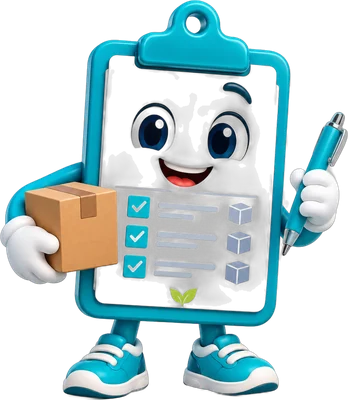
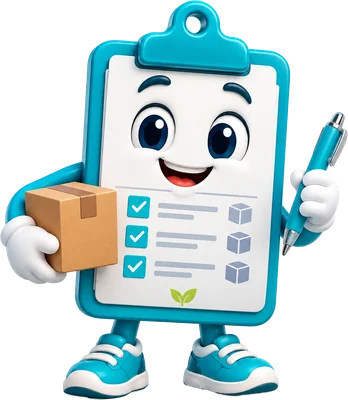
Turma: Cobrança, Compras, Proposta e Rolinho recortados de novo (o papel branco tinha sumido)
Claude-Session: https://claude.ai/code/session_01J4Z1XWxze9kpV6e58orTjR

diff --git a/index.html b/index.html
@@ -9,9 +9,9 @@
 <meta http-equiv="Content-Security-Policy" content="default-src 'self'; script-src 'self' https://cdn.jsdelivr.net; style-src 'self'; img-src 'self' data:; connect-src 'self' https://*.supabase.co wss://*.supabase.co; object-src 'none'; base-uri 'none'; form-action 'none'">
 <meta name="referrer" content="no-referrer">
 <title>CRM</title>
-<meta name="crm-versao" content="e95580fee426">
+<meta name="crm-versao" content="ae8185f32b1e">
 <link rel="icon" href="assets/logo.jpg?v=c886df2fc5">
-<link rel="stylesheet" href="crm.css?v=f12d5df70e">
+<link rel="stylesheet" href="crm.css?v=3f051bbf5e">
 </head>
 <body>
 <div id="tela"></div>
@@ -48,7 +48,7 @@
 <div id="impressao" class="impressao"></div>
 <div id="toast" class="toast" role="status" aria-live="polite"></div>
 
-<script src="config.js?v=6eb3476628"></script>
+<script src="config.js?v=87927d4589"></script>
 <script src="regras.js?v=79de468a56"></script>
 <script src="cadencia.js?v=8905237dde"></script>
 <script src="dados.js?v=3bebf4986f"></script>
@@ -66,7 +66,7 @@
 <script src="caixa.js?v=b809338a5a"></script>
 <script src="detalhe.js?v=faea975d82"></script>
 <script src="financeiro.js?v=7d83ba4538"></script>
-<script src="fichas.js?v=a3f794130c"></script>
+<script src="fichas.js?v=015bf6d5e9"></script>
 <script src="danfe.js?v=092510cd9f"></script>
 <script src="cobranca.js?v=073a962362"></script>
 <script src="orcamento.js?v=f482e67d1a"></script>

diff --git a/config.js b/config.js
@@ -17,7 +17,7 @@ window.CRM_CONFIG = {
   // (topo, de corpo inteiro, guia do dia e conversa); o especialista de cada tela aparece dentro do painel; o Andi
   // recebe no login. turma.js explica. Trocar um desenho: mesmo nome de arquivo e subir a `versao`.
   turma: {
-    pasta: 'assets/turma/', versao: '4',
+    pasta: 'assets/turma/', versao: '5',
     principal: 'clean', anfitriao: 'andi',
     boasVindas: 'Olá! Eu sou o Andi, assistente virtual da OneClean. Entre com o seu e-mail e a sua senha para começar.',
     mascotes: {

diff --git a/CLAUDE.md b/CLAUDE.md
@@ -1248,6 +1248,10 @@ e círculo); recortados sem fundo com o rembg (isnet) em `assets/turma/<id>.webp
   Depois, a pedido dele ("pode colocar o especialista no alto de cada tela"): o especialista da tela aparece **ao lado do
   título** (`especialistaNaTela` em `turma.js`, 64 px, nome e "N coisas pra fazer aqui" ou o papel; clicar abre o painel);
   nas telas do principal (Início, Relatórios, Configurações) não aparece. Agenda passou do Baldinho para o CapiClean.
+  **Recorte consertado (18/10, `versao` 5):** na Cobrança o papel branco com o rosto tinha sumido (o rembg tomou o branco
+  por fundo; o Anderson viu no PDF do boleto), e Compras, Proposta e Rolinho tinham o papel meio transparente. Refeitos com
+  `scratchpad/mascotes/scripts/conserta.py`: o que fica dentro do contorno do boneco volta opaco, com as cores da prancha.
+  Desenho novo com papel ou parte branca por dentro: conferir sobre fundo colorido antes de publicar.
 - **Próximo pedido do Anderson (17/10):** "uma skill de um comprador sênior… administrando a parte de compras, dando
   palpite, sugerindo compras inteligentes, relação com os principais concorrentes, fornecedor…". O começo já está na
   persona de Compras + `reposicao`/`giro`; falta: prazo e mínimo por fornecedor, histórico de preço de compra
